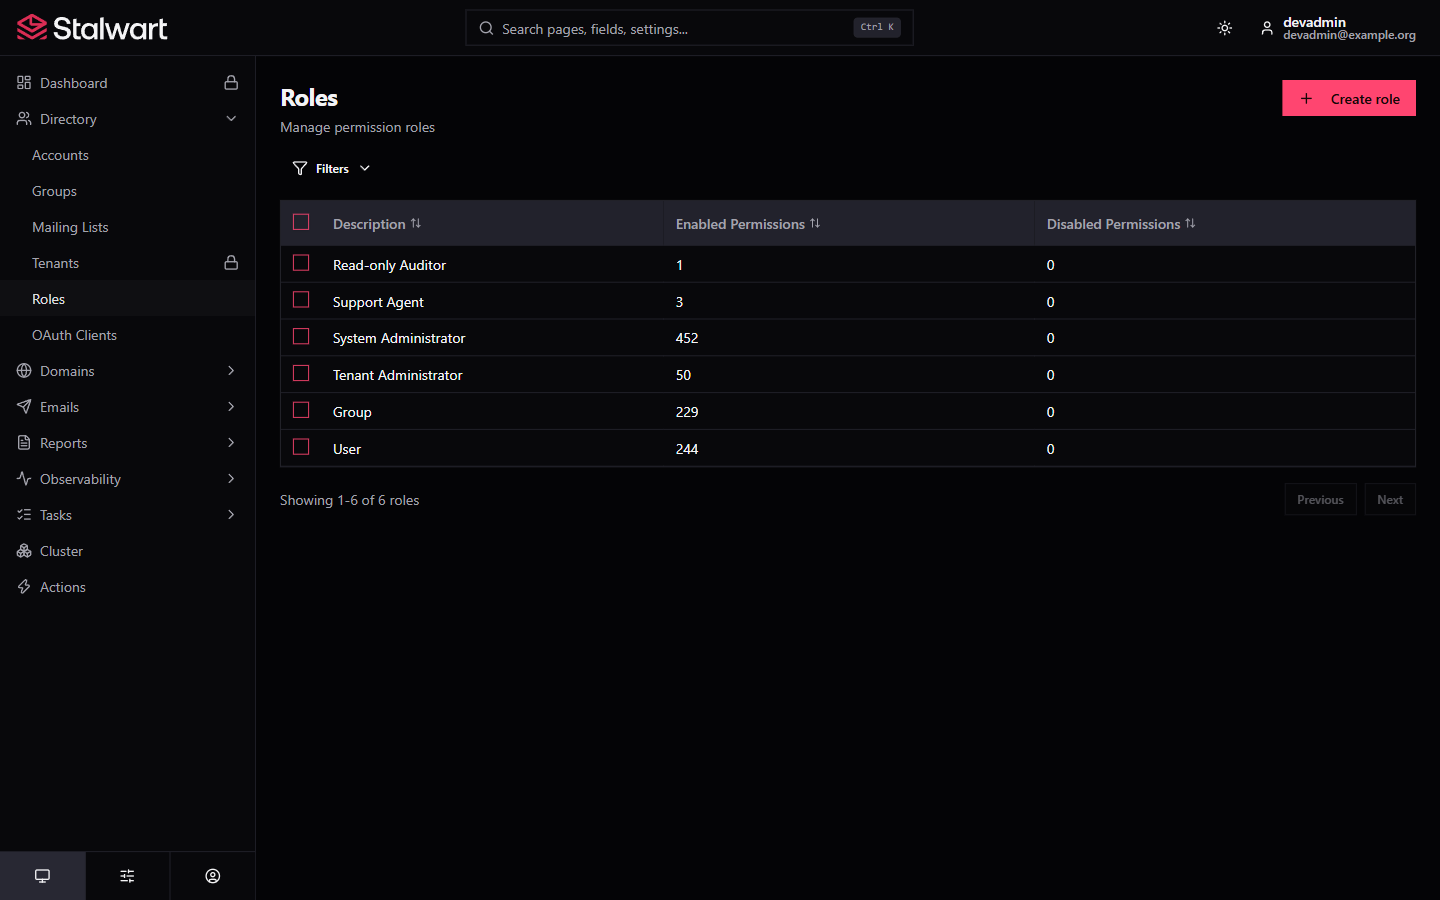
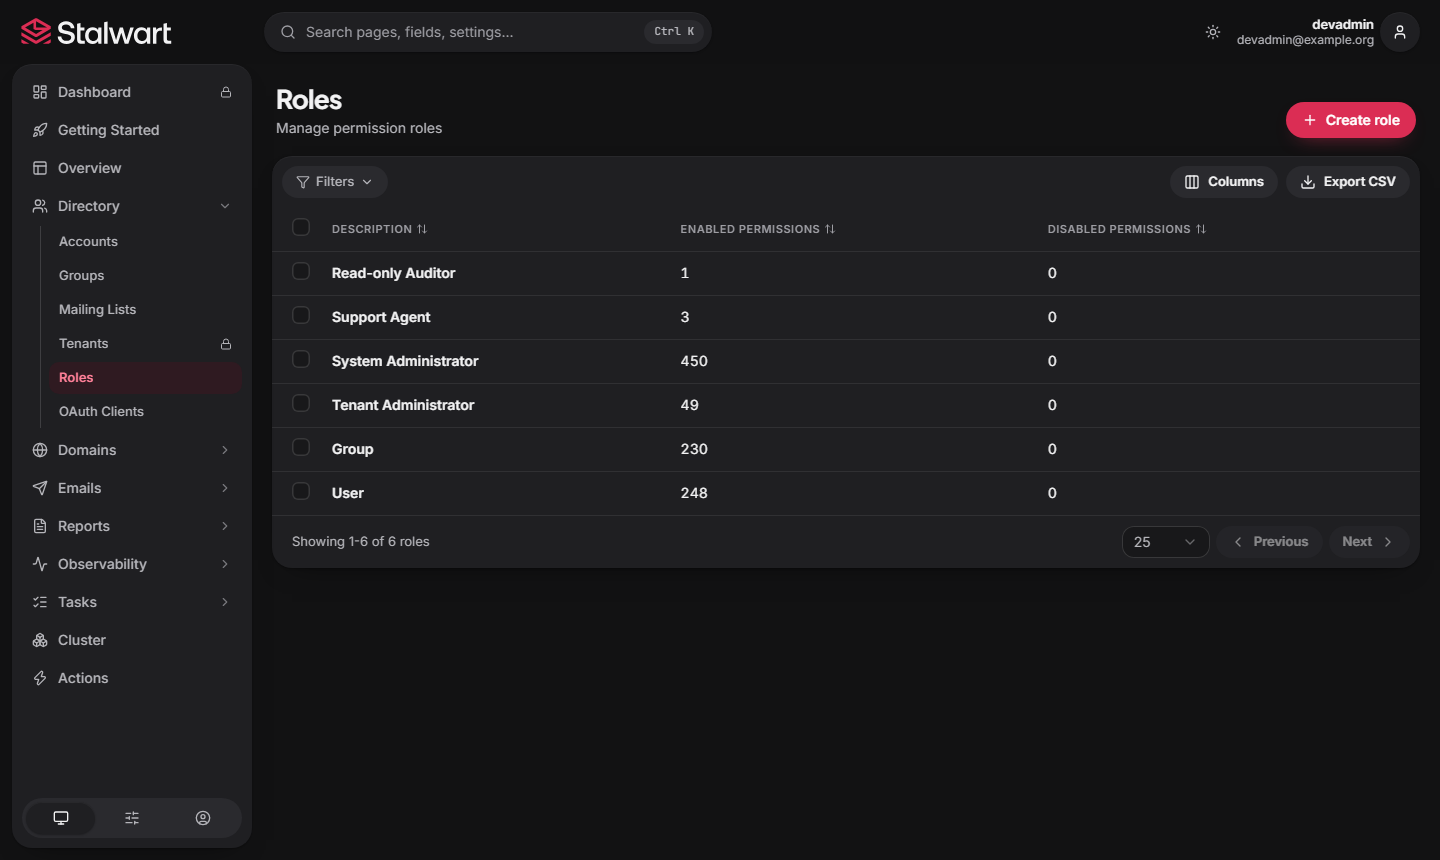
docs: refresh the README with the 2.x design, new screenshots and compatibility
Rewrite the feature list around what the official 2.x WebUI provides (three
sections, Account self-service, passkeys, CIMD sign-in) and what this fork
adds, drop what no longer exists, and state the version policy and the
Stalwart 1.0.0 minimum.

Replace every screenshot and the demo GIF with captures of the 2.0.5 build
against Stalwart 1.0.3, add Data Store, Web Applications, Account, filters
and mobile views, and remove the images of removed features.

Fix the outdated sections: OAuth client ID resolution (environment variable,
meta tag, then CIMD), Node.js 22.12 or later, and tests that now live in this
repository.

diff --git a/README.md b/README.md
@@ -9,13 +9,17 @@
 </h3>
 
 <p align="center">
-  Community fork of <a href="https://github.com/stalwartlabs/webui">stalwartlabs/webui</a> with UI improvements and fixes.
+  Community fork of <a href="https://github.com/stalwartlabs/webui">stalwartlabs/webui</a>: the official 2.x admin panel, plus extra tools for day-to-day administration.
 </p>
 
 <br>
 
 <p align="center">
-  <a href="https://github.com/stalwartlabs/webui/actions/workflows/build.yml"><img src="https://img.shields.io/github/actions/workflow/status/stalwartlabs/webui/build.yml?style=flat-square" alt="continuous integration"></a>
+  <a href="https://github.com/LinkPhoenix/stalwart-webui-fork/actions/workflows/ci.yml"><img src="https://img.shields.io/github/actions/workflow/status/LinkPhoenix/stalwart-webui-fork/ci.yml?style=flat-square&label=CI" alt="continuous integration"></a>
+  &nbsp;
+  <a href="https://github.com/LinkPhoenix/stalwart-webui-fork/releases/latest"><img src="https://img.shields.io/github/v/release/LinkPhoenix/stalwart-webui-fork?style=flat-square&label=release" alt="Latest release"></a>
+  &nbsp;
+  <img src="https://img.shields.io/badge/Stalwart-1.0%2B-red?style=flat-square" alt="Works with Stalwart 1.0 and later">
   &nbsp;
   <a href="https://www.gnu.org/licenses/agpl-3.0"><img src="https://img.shields.io/badge/License-AGPL_v3-blue.svg?label=license&style=flat-square" alt="License: AGPL v3"></a>
   &nbsp;
@@ -34,13 +38,21 @@
 
 ## About this fork
 
-This is a community fork of [stalwartlabs/webui](https://github.com/stalwartlabs/webui) maintained by [LinkPhoenix](https://github.com/LinkPhoenix), focused on UI/UX improvements: mobile-friendly layouts, dark mode polish, additional color themes, a command palette, a calendar date/time picker, and several list/form refinements. Several of these have already been contributed back and shipped in official Stalwart WebUI releases.
+This is a community fork of [stalwartlabs/webui](https://github.com/stalwartlabs/webui) maintained by [LinkPhoenix](https://github.com/LinkPhoenix). It tracks the official WebUI release by release and adds tools for administrators: an overview of the whole server, a first-run checklist, richer lists (quotas, aliases, report summaries, CSV export, bulk actions), a Sieve code editor, color themes and a few quality-of-life refinements. Several of these started here and were later contributed back to the official WebUI.
 
 **Stalwart WebUI** is a schema-driven single-page application for administering [Stalwart](https://stalw.art). After authentication the panel fetches a JSON schema from the server and dynamically generates all forms, lists, navigation, and layouts from that schema — the schema is the single source of truth, not the UI code.
 
-This fork tries to stay aligned with that philosophy: any AI agent or contributor working on it follows the rules in [AGENTS.md](AGENTS.md), and the small number of deliberate exceptions where the UI does something the official schema doesn't (yet) support are tracked, with the ideal server-side fix for each, in [SCHEMA_DEVIATIONS.md](SCHEMA_DEVIATIONS.md).
+This fork keeps to that philosophy: any AI agent or contributor working on it follows the rules in [AGENTS.md](AGENTS.md), and the small number of deliberate exceptions where the UI does something the official schema doesn't (yet) support are tracked, with the ideal server-side fix for each, in [SCHEMA_DEVIATIONS.md](SCHEMA_DEVIATIONS.md).
 
-See [CHANGELOG.md](CHANGELOG.md) for the full list of changes in this fork.
+### Versions and compatibility
+
+The fork uses **the same version number as the official WebUI it is based on**: release 2.0.5 of this fork is the official 2.0.5 plus the fork's additions. Releases before 2.0.5 (1.x) followed the official 1.0.x WebUI.
+
+| This fork | Official WebUI | Stalwart server |
+|-----------|----------------|-----------------|
+| 2.0.5 | 2.0.5 | **1.0.0 or later** (tested with 1.0.3) |
+
+The minimum server version is declared as `stalwart.minServerVersion` in [package.json](package.json) and published in the app manifest (`stalwart-app.json`) that Stalwart reads when it installs a WebUI build. See [CHANGELOG.md](CHANGELOG.md) for the full list of changes.
 
 Official Stalwart repositories:
 
@@ -50,35 +62,40 @@ Official Stalwart repositories:
 
 ## Features
 
-Key features (shared with upstream):
+### From the official WebUI 2.x (included)
 
 - **Schema-driven UI**: All forms, lists, and navigation are generated from a JSON schema fetched from `/api/schema` after login. No object types, field names, or layouts are hardcoded.
-- **JMAP protocol**: All data operations (queries, creates, updates, deletes, blob uploads) use JMAP (RFC 8620) with method chaining and result references.
+- **Three sections**: **Management** (directory, domains, emails, reports, observability, tasks, cluster, actions), **Settings** (network, storage, authentication, TLS, MTA, spam filter, email, calendar and contacts, files and sharing, Sieve, security, encryption, lookups, search, telemetry, task manager, web applications) and **Account**, the self-service area for the signed-in user.
+- **Account self-service**: credentials (API keys, app passwords, public keys, OAuth grants), mailboxes, calendars, address books, Sieve scripts, vacation response and spam samples, with passkey registration.
+- **JMAP protocol**: All data operations (queries, creates, updates, deletes, blob uploads) use JMAP (RFC 8620) with method chaining and result references, on a TanStack Query data layer.
 - **Permission-aware**: Every button, link, field, and section respects the user's permissions. Elements the user cannot access are hidden.
+- **Modern sign-in**: OAuth 2.0 with client ID metadata documents (CIMD) and RFC 8707 resource indicators, and locale-aware dates and numbers.
+- **Schema-defined dashboards** with live metrics and Live Tracing (Stalwart Enterprise).
 
-Additions in this fork:
+### Additions in this fork
 
 - **Community Overview**: inventory cards (directory, mail readiness, access & apps, reports) with attention badges for queue backlog, certificate expiry, and report problems — separate from the Enterprise live-metrics Dashboard.
-- **Getting Started checklist**: first-run checklist (domain, DKIM, TLS cert, admin account; optional DMARC) with deep links and docs — shown in the sidebar only while required steps remain (no flash on completed installs).
-- **Usable on mobile**: admin lists, forms, and the sidebar work on narrow viewports instead of assuming desktop.
-- **Selectable color themes** (Stalwart, Ocean, Forest, Violet, Rose, Amber, Teal) with light/dark, square/rounded corners, and **list density** (comfortable / compact).
-- **`Ctrl+K` / `Cmd+K` command palette** to search pages, form sections, and fields — including Overview / Appearance keywords (`queue`, `theme`, …).
-- **In-app Changelog** in the header menu (published versions only; no `[Unreleased]`).
-- **Calendar date/time picker** replacing native date inputs, themed for dark mode.
-- **Accounts list**: Role and Usage/Quota columns with coloured progress bars, plus a highlight and recalculate hint for stale negative disk-usage values.
-- **CSV export** and **bulk Change quota…** on admin lists (Accounts/Groups for quota).
-- **Sieve**: Active column on System/User script lists; syntax-highlighted foldable script editor; expand-to-fit on long textareas.
+- **Getting Started checklist**: first-run checklist (domain, DKIM, TLS cert, admin account; optional DMARC) with deep links and docs — shown in the sidebar only while required steps remain.
+- **Appearance**: light and dark mode (dark by default), eight color themes (Default, Stalwart, Ocean, Forest, Violet, Rose, Amber, Teal), rounded or square corners and **list density** (comfortable or compact).
+- **`Ctrl+K` / `Cmd+K` command palette** to search pages, form sections, and fields — including Overview and Appearance keywords (`queue`, `theme`, …).
+- **In-app Changelog** in the header menu (published versions only; never `[Unreleased]`).
+- **Usable on mobile**: lists, forms, and the navigation work on narrow viewports instead of assuming a desktop.
+- **User menu**: signed-in name and email, an account switcher, Appearance and Changelog.
+- **Accounts list**: Role and Usage/Quota columns with coloured progress bars, plus an explanation for stale negative disk-usage values.
+- **CSV export** on the admin lists, and **bulk Change quota…** on Accounts and Groups.
+- **Column and page-size preferences**: choose the visible columns and 25, 50 or 100 rows per page; both are remembered.
 - **Aliases counts**: Accounts, Groups, Domains, and Mailing Lists lists all show an Aliases column.
-- **Sortable list columns**: the most relevant column on every list (Accounts, Groups, Domains, Mailing Lists, Roles) can be sorted client-side.
+- **Sortable columns**: the most relevant columns (Accounts, Groups, Domains, Mailing Lists, Roles) can be sorted in the browser, even when the server cannot sort on them.
 - **Roles list**: Enabled/Disabled Permissions count columns, so you can see a role's scope without opening it.
-- **User menu**: current account name/email and an account switcher in the header dropdown, alongside Appearance settings.
 - **Mailboxes list**: shown as an indented hierarchy instead of a flat list.
-- **Queued messages**: empty/backlog guidance with links to Delivery Trace and Log Entries; **Size** shown as human units (B / KB / MB / GB / TB), including when the schema still marks the field as a plain integer.
-- **Byte sizes everywhere**: list, detail, and form fields for byte quantities (`size`, quotas, …) use the same dynamic unit ladder — no unitless `1,254`-style counts.
-- **Store / DNS type icons**: brand assets for known backends (S3→AWS, PostgreSQL, Redis, Cloudflare, …) plus Lucide stand-ins for FileSystem, Default, Sharded, ElasticSearch, LDAP, and DNS providers without a local logo — paths respect Stalwart’s `/admin` (or `/account`) mount so icons work in production, not only in local Vite.
-- **Log Entries**: client-side Level/Event filters (“Exact match only”), named presets, optional auto-refresh, and a rate-limited Refresh button.
-- **Report lists**: Pass/Quarantine/Reject (DMARC), Successful/Failed Sessions (TLS), Incidents + Feedback Type (ARF); coloured badges when non-zero; **Problems only** toggle.
-- **Open in new tab**: sidebar, header menu, list Create/rows, command palette, and Back/Cancel use real links so middle-click and the browser context menu work.
+- **Filters that say what they do**: text filters are marked "Exact match only", and an empty result explains why and offers a reset.
+- **Queued messages**: backlog and empty-queue guidance with links to Delivery Trace and Log Entries; **Size** in human units (B / KB / MB / GB / TB).
+- **Sieve**: Active column on System and User script lists, and a syntax-highlighted, foldable script editor.
+- **Backend icons**: brand logos for known stores (S3, PostgreSQL, Redis, RocksDB, SQLite, FoundationDB, MySQL, Cloudflare, …) in type pickers, with Lucide stand-ins for the rest. Paths respect Stalwart's `/admin` (or `/account`) mount, so icons work in production, not only in local Vite.
+- **Active WebUI card**: the Web Applications list shows which WebUI build is being served, its version and where it came from.
+- **Log Entries**: client-side Level and Event filters, named presets, optional auto-refresh and a rate-limited Refresh button.
+- **Report lists**: Pass/Quarantine/Reject (DMARC), Successful/Failed Sessions (TLS), Incidents and Feedback Type (ARF); coloured badges when non-zero; **Problems only** toggle.
+- **Open in new tab**: sidebar entries and list rows are real links, so middle-click and the browser context menu work.
 
 ### Community vs Enterprise (this fork)
 
@@ -98,34 +115,36 @@ Repository and reverse-proxy security settings: [docs/SECURITY_OPERATIONS.md](do
 
 <img src="./img/demo.gif">
 
-Captured against a local dev server seeded with sample data (see [DEVELOPMENT.md](DEVELOPMENT.md)) — all addresses below are examples (`@example.org`), not real accounts.
+Captured against a local Stalwart 1.0.3 dev server seeded with sample data (see [DEVELOPMENT.md](DEVELOPMENT.md)) — all addresses below are examples (`@example.org`), not real accounts.
 
 | | |
 |---|---|
 | Overview — inventory + attention badges | Getting Started checklist |
 | ![Overview](./docs/screenshots/overview.png) | ![Getting Started](./docs/screenshots/getting-started.png) |
-| Accounts — Usage/Quota + Aliases columns | Roles — permission counts |
-| ![Accounts list](./docs/screenshots/accounts-list.png) | ![Roles list](./docs/screenshots/roles-list.png) |
+| Accounts — Role, Usage/Quota and Aliases columns, Export CSV | Accounts — filters marked "Exact match only" |
+| ![Accounts list](./docs/screenshots/accounts-list.png) | ![Accounts filters](./docs/screenshots/list-filters.png) |
 | Groups — Usage/Quota + Aliases columns | Domains — Aliases column |
 | ![Groups list](./docs/screenshots/groups-list.png) | ![Domains list](./docs/screenshots/domains-list.png) |
-| Mailing Lists — Aliases column | User menu (header) |
-| ![Mailing lists](./docs/screenshots/mailing-lists.png) | ![User menu](./docs/screenshots/user-menu.png) |
-| Appearance — light mode + list density | Appearance — dark mode, Stalwart theme |
-| ![Appearance light](./docs/screenshots/appearance-light.png) | ![Appearance dark](./docs/screenshots/appearance-dark.png) |
-| Queued messages — backlog + ops links | Log Entries — exact-match filters, presets, auto-refresh |
-| ![Queued messages](./docs/screenshots/queue-messages.png) | ![Log Entries](./docs/screenshots/log-entries.png) |
-| DMARC inbox — summary columns | TLS inbox — Problems only + failed sessions |
-| ![DMARC reports](./docs/screenshots/dmarc-reports.png) | ![TLS problems only](./docs/screenshots/tls-problems-only.png) |
-| ARF inbox — Incidents + Feedback Type | Command palette (`theme` → Appearance) |
-| ![ARF reports](./docs/screenshots/arf-reports.png) | ![Command palette](./docs/screenshots/command-palette.png) |
-| Changelog (in-app) | Accounts — Export CSV + quota bars |
-| ![Changelog](./docs/screenshots/changelog.png) | ![CSV export](./docs/screenshots/csv-export.png) |
+| Roles — permission counts | Mailing Lists — Aliases column |
+| ![Roles list](./docs/screenshots/roles-list.png) | ![Mailing lists](./docs/screenshots/mailing-lists.png) |
 | Bulk Change quota… | List empty — no filter matches |
 | ![Bulk quota](./docs/screenshots/bulk-quota.png) | ![Filter empty](./docs/screenshots/list-empty-filter.png) |
-| System Sieve scripts — Active column | Sieve script editor (syntax highlight) |
+| DMARC inbox — summary columns | TLS inbox — Problems only + failed sessions |
+| ![DMARC reports](./docs/screenshots/dmarc-reports.png) | ![TLS problems only](./docs/screenshots/tls-problems-only.png) |
+| ARF inbox — Incidents + Feedback Type | Queued messages — empty queue + ops links |
+| ![ARF reports](./docs/screenshots/arf-reports.png) | ![Queued messages](./docs/screenshots/queue-messages.png) |
+| System Sieve scripts — Active column | Sieve script editor (syntax highlight, folding) |
 | ![Sieve list](./docs/screenshots/sieve-scripts-list.png) | ![Sieve editor](./docs/screenshots/sieve-script-editor.png) |
-| Expand to fit content (long textareas) | |
-| ![Expand textarea](./docs/screenshots/textarea-expand.png) | |
+| Data Store — backend icons in the type picker | Web Applications — Active WebUI card |
+| ![Data Store types](./docs/screenshots/data-store-types.png) | ![Web Applications](./docs/screenshots/applications.png) |
+| Account — self-service section | User menu (header) |
+| ![Account settings](./docs/screenshots/account-settings.png) | ![User menu](./docs/screenshots/user-menu.png) |
+| Command palette (`theme` → Appearance) | Changelog (in-app) |
+| ![Command palette](./docs/screenshots/command-palette.png) | ![Changelog](./docs/screenshots/changelog.png) |
+| Appearance — dark mode (default) | Appearance — light mode |
+| ![Appearance dark](./docs/screenshots/appearance-dark.png) | ![Appearance light](./docs/screenshots/appearance-light.png) |
+| Mobile layout | |
+| <img src="./docs/screenshots/mobile-accounts.png" width="260" alt="Accounts on a phone"> | |
 
 ## Get Started
 
@@ -135,7 +154,7 @@ Stalwart WebUI ships as part of Stalwart Mail Server. To install Stalwart Mail S
 - [Windows](https://stalw.art/docs/install/windows)
 - [Docker](https://stalw.art/docs/install/docker)
 
-All documentation is available at [stalw.art/docs/get-started](https://stalw.art/docs/get-started). Note that a standard Stalwart install ships the **official** WebUI; see [Switching your server to this fork's UI](#switching-your-server-to-this-forks-ui) below to point your server at this fork instead.
+All documentation is available at [stalw.art/docs/get-started](https://stalw.art/docs/get-started). Note that a standard Stalwart install ships the **official** WebUI; see [Switching your server to this fork's UI](#switching-your-server-to-this-forks-ui) below to point your server at this fork instead. This fork needs Stalwart **1.0.0 or later**.
 
 ## Switching your server to this fork's UI
 
@@ -168,16 +187,18 @@ Then trigger the update:
 stalwart-cli create Action/UpdateApps
 ```
 
-Every tagged release of this fork publishes a `webui.zip` build via CI (see [`.github/workflows/build.yml`](.github/workflows/build.yml)), so pointing at `releases/latest/download/webui.zip` always fetches the newest tested build. To go back to the official UI, repeat the `update` step with `https://github.com/stalwartlabs/webui/releases/latest/download/webui.zip`.
+Every tagged release of this fork publishes a `webui.zip` build via CI (see [`.github/workflows/build.yml`](.github/workflows/build.yml)), so pointing at `releases/latest/download/webui.zip` always fetches the newest tested build. To stay on a specific version, use `https://github.com/LinkPhoenix/stalwart-webui-fork/releases/download/v2.0.5/webui.zip` instead. To go back to the official UI, repeat the `update` step with `https://github.com/stalwartlabs/webui/releases/latest/download/webui.zip`.
+
+After the update, **Settings → Web Applications** shows the version that is being served.
 
 ## Getting started
 
 Prerequisites:
 
-- Node.js 18 or later
-- A running Stalwart instance (for JMAP API calls) — see [DEVELOPMENT.md](DEVELOPMENT.md) for how to spin up a disposable local test server with Docker, no manual Stalwart setup required.
+- Node.js 22.12 or later (CI runs on Node 24, the current LTS)
+- A running Stalwart 1.0 or later instance (for JMAP API calls) — see [DEVELOPMENT.md](DEVELOPMENT.md) for how to spin up a disposable local test server with Docker, no manual Stalwart setup required.
 
-Install dependencies:
+Install dependencies (the repository keeps both `package-lock.json` and `bun.lock` current, so `bun install` works too):
 
 ```
 npm install
@@ -198,17 +219,23 @@ VITE_OAUTH_SCOPES=
 | `VITE_API_BASE_URL` | URL of the Stalwart server. Used for all API requests during development. In production builds (when empty or unset) requests are relative to the current origin. |
 | `VITE_ACCESS_TOKEN` | Development-server-only OAuth bypass for local testing. Production builds reject a non-empty value because `VITE_` values are embedded in browser assets. |
 | `VITE_OAUTH_SCOPES` | Optional OAuth scopes. Omitted from the authorization request when empty. |
+| `VITE_OAUTH_CLIENT_ID` | Optional OAuth client ID that overrides everything below. |
 
 ### OAuth client ID
 
-The OAuth 2.0 client ID is not a build-time setting. It is read at runtime from a meta tag in `index.html`:
+The OAuth 2.0 client ID is not a build-time setting. It is chosen at runtime, in this order:
 
-```html
-<meta name="oauth-client-id" content="" />
-```
+1. `VITE_OAUTH_CLIENT_ID`, when set (development).
+2. The `oauth-client-id` meta tag of `index.html`:
 
-The server rewrites the `content` attribute when it serves the page, so a single build works for any deployment. When no
-client ID is configured the attribute is left empty and the panel falls back to `stalwart-webui`.
+   ```html
+   <meta name="oauth-client-id" content="" />
+   ```
+
+   The server rewrites the `content` attribute when it serves the page, so a single build works for any deployment.
+3. A client ID metadata document (CIMD): when the server advertises support, the panel uses `<origin>/<mount path>/oauth-client.json` as its client ID, so a stock Stalwart needs no client registration.
+
+The server can also set the requested scopes through the `oauth-scopes` meta tag.
 
 ### Bypassing OAuth for development
 
@@ -231,13 +258,16 @@ This starts Vite's development server with hot module replacement, typically at 
 
 ## Testing
 
-Unit and end-to-end tests are maintained in a separate repository.
-
-Run the browser smoke tests (install Chromium once with `npx playwright install chromium`):
+Everything runs from the repository:
 
 ```
-npm run test:e2e
+npm run typecheck   # TypeScript 7 (native compiler)
+npm run lint        # Oxlint
+npm test            # Vitest unit tests
+npm run test:e2e    # Playwright browser tests
 ```
+
+Install Chromium once with `npx playwright install chromium` before running the browser tests. Locally they use two workers; CI uses one.
 
 ## Building for production
 

diff --git a/DEVELOPMENT.md b/DEVELOPMENT.md
@@ -6,7 +6,7 @@ This file is meant to be read by humans and AI coding agents alike — see
 
 ## Prerequisites
 
-- Node.js 18+
+- Node.js 22.12+ (CI runs on Node 24)
 - Docker (with the `docker compose` CLI plugin)
 
 ## 1. Start a local test server
